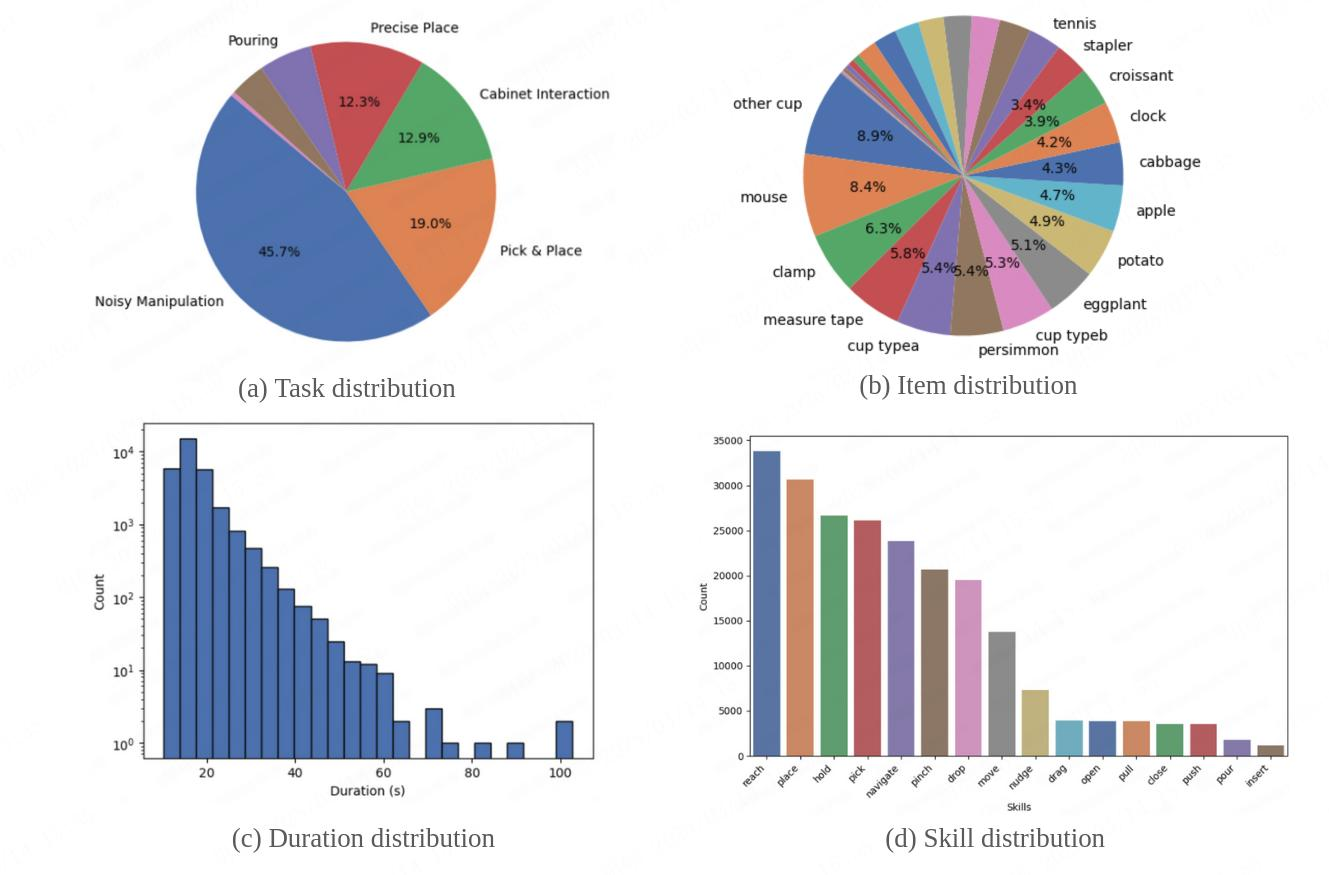
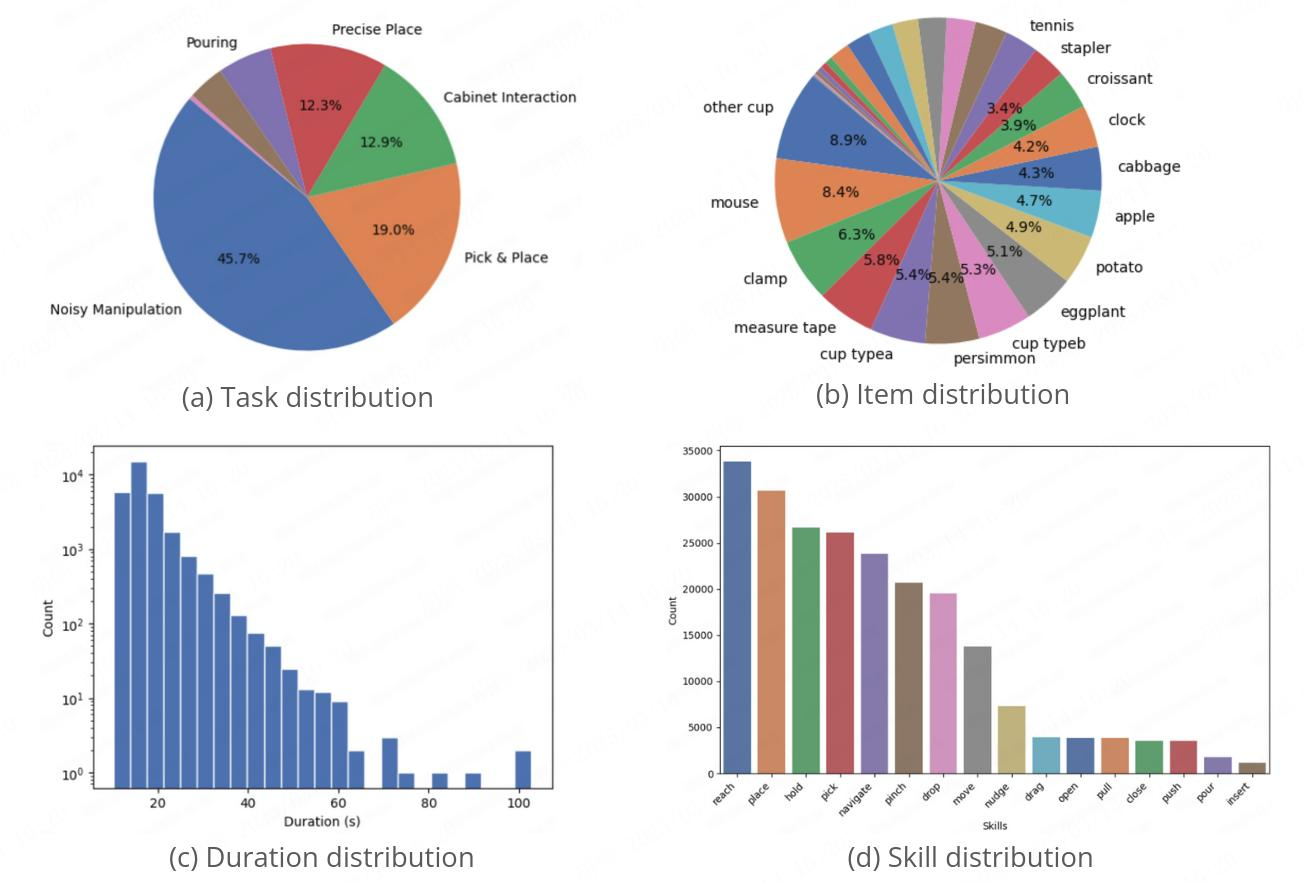
🐛 Fixed the image color

diff --git a/index.html b/index.html
@@ -652,7 +652,7 @@
           and IDP3 algorithms. Our training pipeline and data format follow the LEROBOT
           structure, ensuring a more convenient and well-organized framework. For full
           details, please check our
-          <a href="https://github.com/FFTAI" target="_blank">
+          <a href="https://github.com/FFTAI/fourier-lerobot" target="_blank">
             <strong>Github.</strong>
           </a>
         </p>
